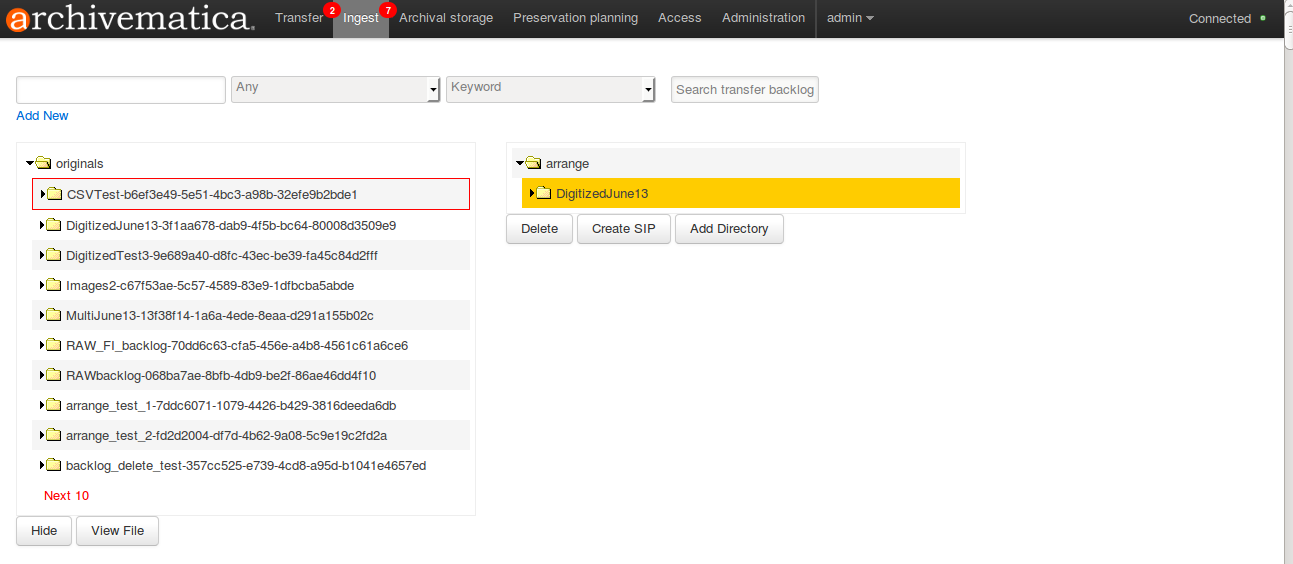
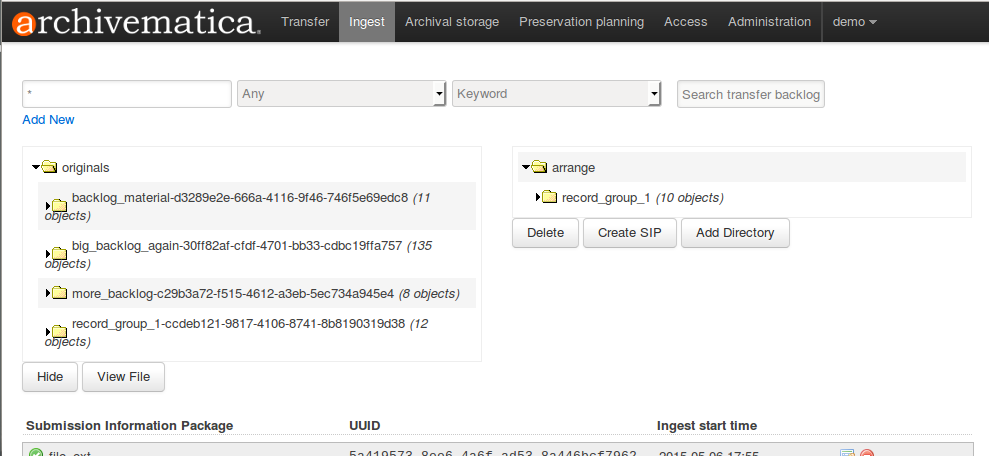
Updated to reflect dashboard feedback

diff --git a/user-manual/ingest/ingest.rst b/user-manual/ingest/ingest.rst
@@ -82,7 +82,8 @@ feature, though entire folders/directories can be moved.
 
    Transfer backlog search results in populating Originals pane
 
-To hide directories from the Originals pane, click on the directory and click
+Archivematica will display the directories in Transfer backlog including the
+number of objects in each directory. To hide directories from the Originals pane, click on the directory and click
 Hide.
 
 2. Drag and drop the transfer directory(ies) and/or object(s) you wish to
@@ -96,6 +97,13 @@ create an arrangement structure for your SIP (see step 4, below).
    :alt: Dragging and dropping directories from Originals pane to Arrange pane
 
    Drag and drop from Originals pane to Arrange pane
+
+.. note::
+
+   There will be a discrepancy between the object count in the originals pane
+   vs the arrange pane after a directory is dragged over. This is because the
+   originals pane is counting metadata and submission documentation, including
+   the METS file created during Transfer.
 
 3. Click on the directory in the Arrange pane to select, and then click Create
 SIP. Archivematica will confirm that you wish to create a SIP, and then
